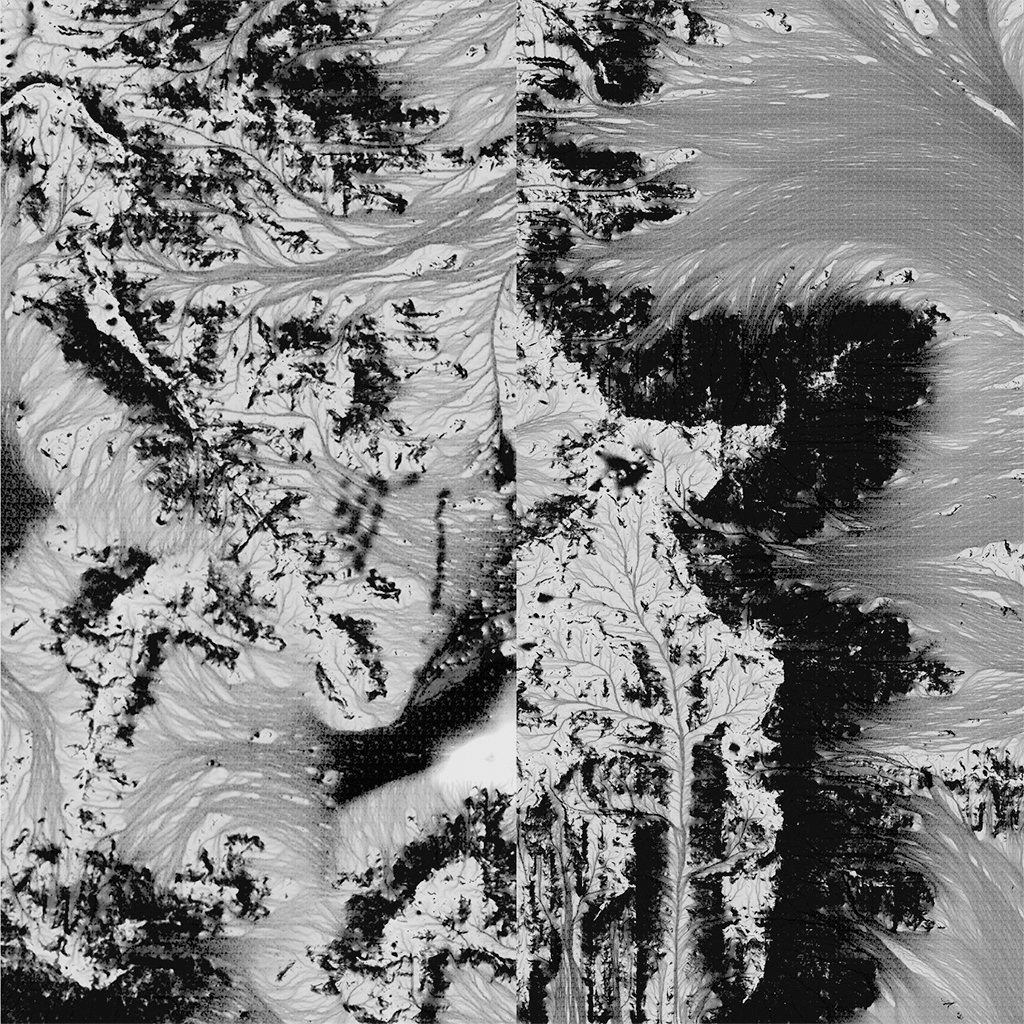
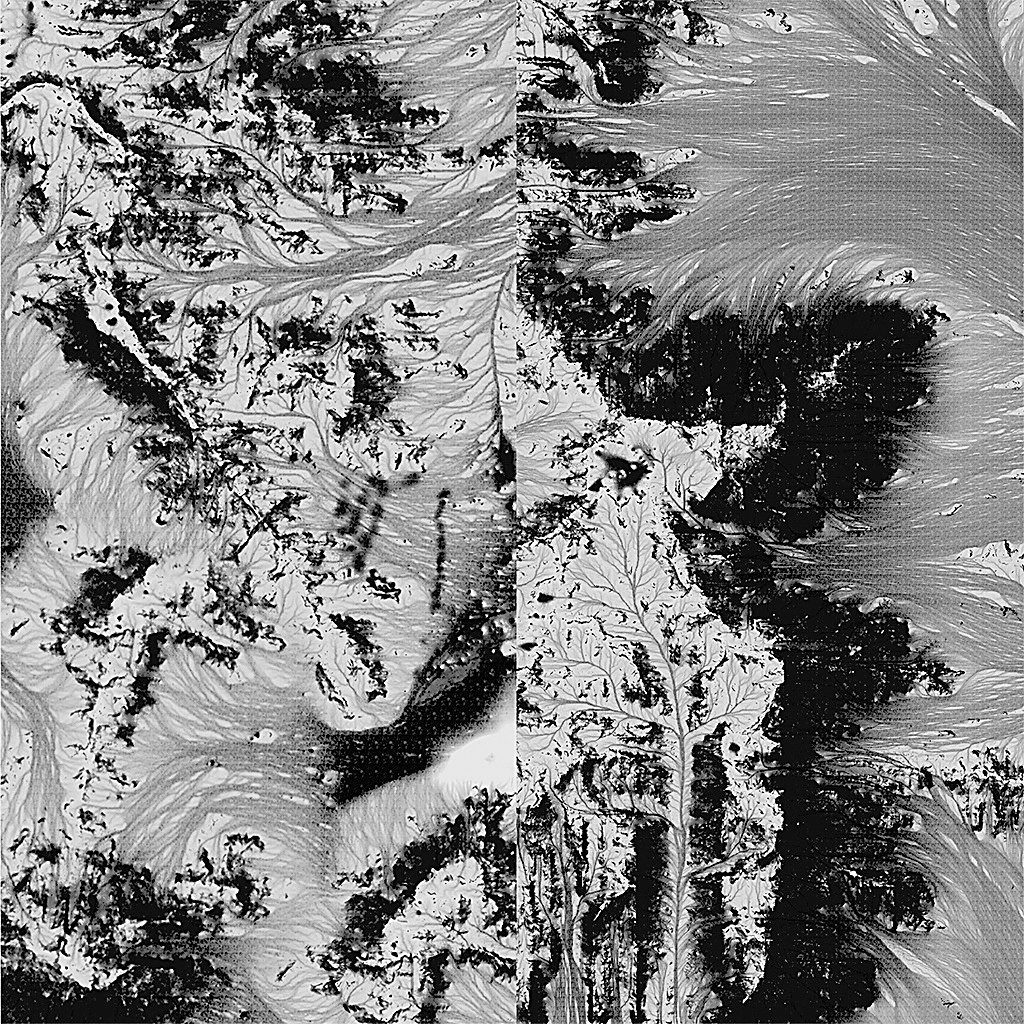
Lab: sharper textures (unsharp-masked 1024px bakes), fine rock-grain detail layer on the mountains, wider fine-detail range on the ground
Claude-Session: https://claude.ai/code/session_01AyrwQmVMdZ44xQqjDx9n4V

diff --git a/src/components/universe/surface/StormMountains.tsx b/src/components/universe/surface/StormMountains.tsx
@@ -8,6 +8,8 @@ import {
   DoubleSide,
   Mesh,
   MeshBasicMaterial,
+  MirroredRepeatWrapping,
+  NoColorSpace,
   RepeatWrapping,
   SRGBColorSpace,
   TextureLoader,
@@ -40,6 +42,11 @@ export function StormMountains({ lightning }: { lightning: { flash: number } }) 
     let cancelled = false;
     const added: Mesh[] = [];
     const loader = new TextureLoader();
+    // fine rock grain multiplied over the baked maps, so the slopes stay sharp up close
+    const detail = loader.load("/models/storm/ground.jpg");
+    detail.colorSpace = NoColorSpace;
+    detail.wrapS = detail.wrapT = MirroredRepeatWrapping;
+    detail.anisotropy = Math.min(12, gl.capabilities.getMaxAnisotropy());
     (async () => {
       const buf = await fetch("/models/storm/mtn.bin").then((r) => r.arrayBuffer());
       if (cancelled) return;
@@ -92,6 +99,14 @@ export function StormMountains({ lightning }: { lightning: { flash: number } }) 
         t.wrapS = t.wrapT = RepeatWrapping;
         t.anisotropy = Math.min(12, gl.capabilities.getMaxAnisotropy());
         const mat = new MeshBasicMaterial({ map: t, vertexColors: true, side: DoubleSide });
+        mat.onBeforeCompile = (sh) => {
+          sh.uniforms["uDet"] = { value: detail };
+          sh.fragmentShader = "uniform sampler2D uDet;\n" + sh.fragmentShader.replace(
+            "#include <map_fragment>",
+            "#include <map_fragment>\n  diffuseColor.rgb *= 0.62 + texture2D(uDet, vMapUv * 13.0).r * 0.76;"
+          );
+        };
+        mat.customProgramCacheKey = () => "storm-mtn-detail";
         mats.current.push(mat);
         const mesh = new Mesh(g, mat);
         mesh.scale.setScalar(SCALE);
@@ -102,6 +117,7 @@ export function StormMountains({ lightning }: { lightning: { flash: number } }) 
     })().catch(() => undefined);
     return () => {
       cancelled = true;
+      detail.dispose();
       mats.current = [];
       for (const m of added) {
         group.remove(m);

diff --git a/src/components/universe/surface/shaders.ts b/src/components/universe/surface/shaders.ts
@@ -51,8 +51,8 @@ void main() {
   // photographic rock detail from the Thunderstorm model (mirror-tiled so no seams show):
   // two broad scales everywhere, plus a fine scale that fades in close to the camera
   vec2 w2 = vWorld.xz * 0.063 + 0.37;
-  vec2 w3 = vWorld.xz * 0.34 + 0.11;
-  float nearW = 1.0 - smoothstep(25.0, 110.0, vDist);
+  vec2 w3 = vWorld.xz * 0.42 + 0.11;
+  float nearW = 1.0 - smoothstep(40.0, 190.0, vDist);
   float rt = texture2D(uTex, vWorld.xz * 0.011).r * 0.5 + texture2D(uTex, w2).r * 0.5;
   float fineT = texture2D(uTex, w3).r;
   col *= 0.42 + rt * 1.16;
